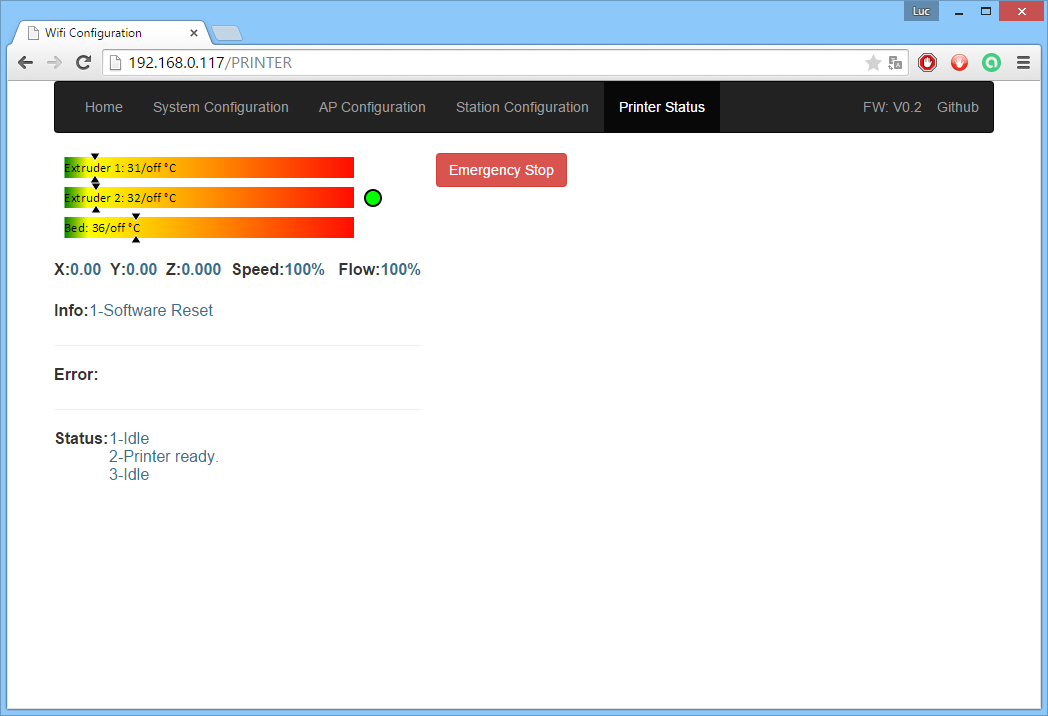
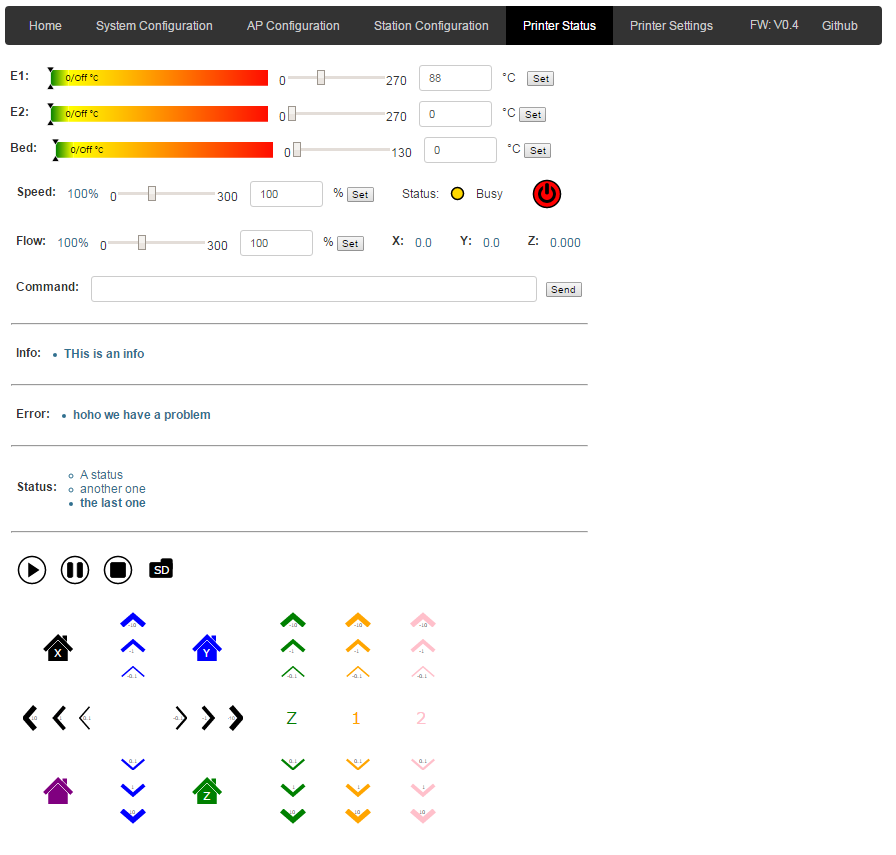
Update for new template process

diff --git a/README.md b/README.md
@@ -66,24 +66,32 @@ These are the UI when css is in cache or internet is available:
 <img src=https://raw.githubusercontent.com/luc-github/ESP8266/master/Page2.png><br>     
 <img src=https://raw.githubusercontent.com/luc-github/ESP8266/master/Page3.png><br>     
 <img src=https://raw.githubusercontent.com/luc-github/ESP8266/master/Page4.png><br>     
-<img src=https://raw.githubusercontent.com/luc-github/ESP8266/master/page5.png><br>     
+<img src=https://raw.githubusercontent.com/luc-github/ESP8266/master/Page5.png><br>     
+<img src=https://raw.githubusercontent.com/luc-github/ESP8266/master/Page6.png><br>     
+the html files are using templates stored on SPIFFS
+<img src=https://raw.githubusercontent.com/luc-github/ESP8266/master/files.png><br>
+and uploaded using IDE (http://arduino.esp8266.com/versions/1.6.5-1160-gef26c5f/doc/reference.html#file-system)
+list of keywords can be find here : https://github.com/luc-github/ESP8266/blob/master/keywords.txt
+Any files on SPIFFS can be called on web interface without having the path hard coded  - this give more flexibility     
+So UI is kind of separated from FW which allow easier modifications     
 
 ##Protocol for discovery   
 *mDNS : on Station mode only with bonjour installed on computer   
 *SSDP : on Station and AP mode   
-*DNS Server / Captive portal : on AP mode only (not yet implemented)    
+*DNS Server / Captive portal : on AP mode only (not yet functionnal)    
 
 ##Commands/msg from/to serial(not yet implemented):    
 *from module to printer   [Need Printer FW support and can be disabled in ESP FW]    
     -M117 [Message], Error/status message from module (done)     
     -Send Wifi settings [AP/STATION,SSID,DHC/STATIC,IP,MASK,GW,STATUS,MAC ADDRESSS, BAUD?], ]Module configuration without password    
         
-*from host to printer   (not yet implemented) [Need Printer FW support] on port 8888    
+*from host to printer   (not fully yet implemented) [Need Printer FW support] on port 8888    
     -M800 [IP, AP,SSID, Password....], ]Module configuration settings to be used  by module    
     -M801 query to get wifi informations    
+    - bridge is implemented from TCP/IP to Serial and vice-versa
           
-*from printer to module   (Need Printer FW support and can be disabled in ESP FW)   (not yet implemented)  
-    -request configuration/status    
+*from printer to module   (Need Printer FW support and can be disabled in ESP FW)   (not fully yet implemented)  
+    -request configuration/status   (done)       
     -set AP/STATION,SSID,PASSSWORD,DHC/STATIC,IP,MASK,GW,BAUD from serial    
  
 ##Front End (basic implemented)  [need Printer FW support it] or just display module status 
@@ -92,13 +100,16 @@ These are the UI when css is in cache or internet is available:
 --Display positions/flow/speed (done)    
 --Display print progress if any (done)   
 --List SDCard Content   
---Launch/Stop/(Pause?) a Print   
+--Launch a Print
+--Stop/Pause a Print (done)   
 --Emergency Stop (done)   
+--Jog control / custom commands (done)     
  
-##TODO    
--- Define Front End Functions  
--- do testing   
--- add some Javascript to enhance web UI     
+##TODO      
+-- do testing     
+--SD Card management    
+--Printer EEPROM management    
+
 
 
 more to come    
